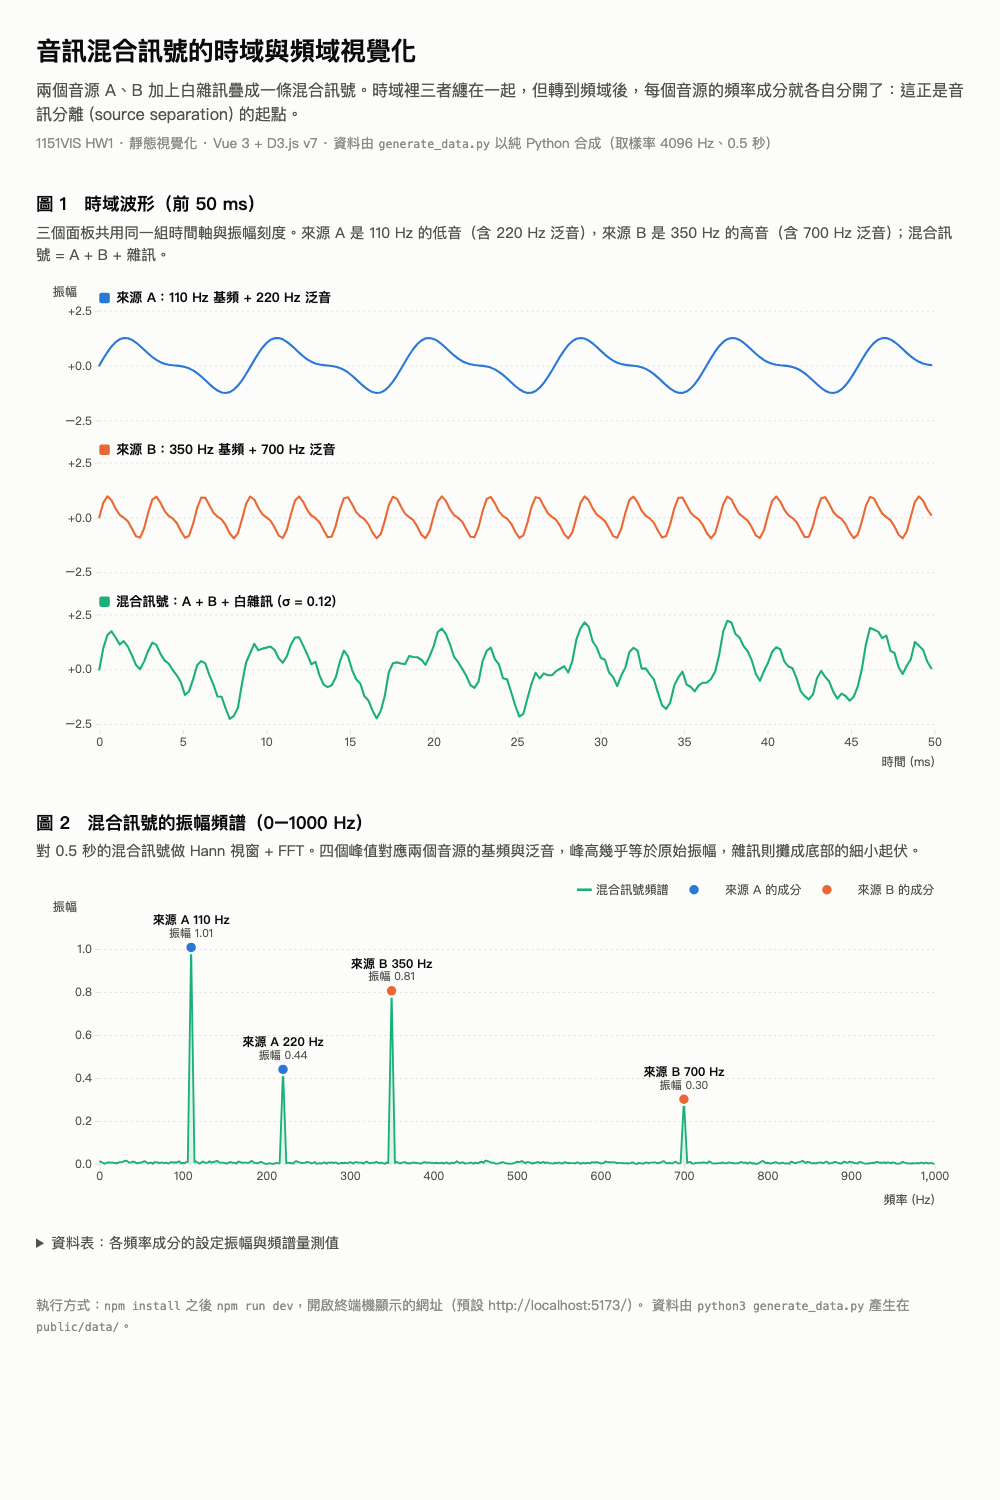
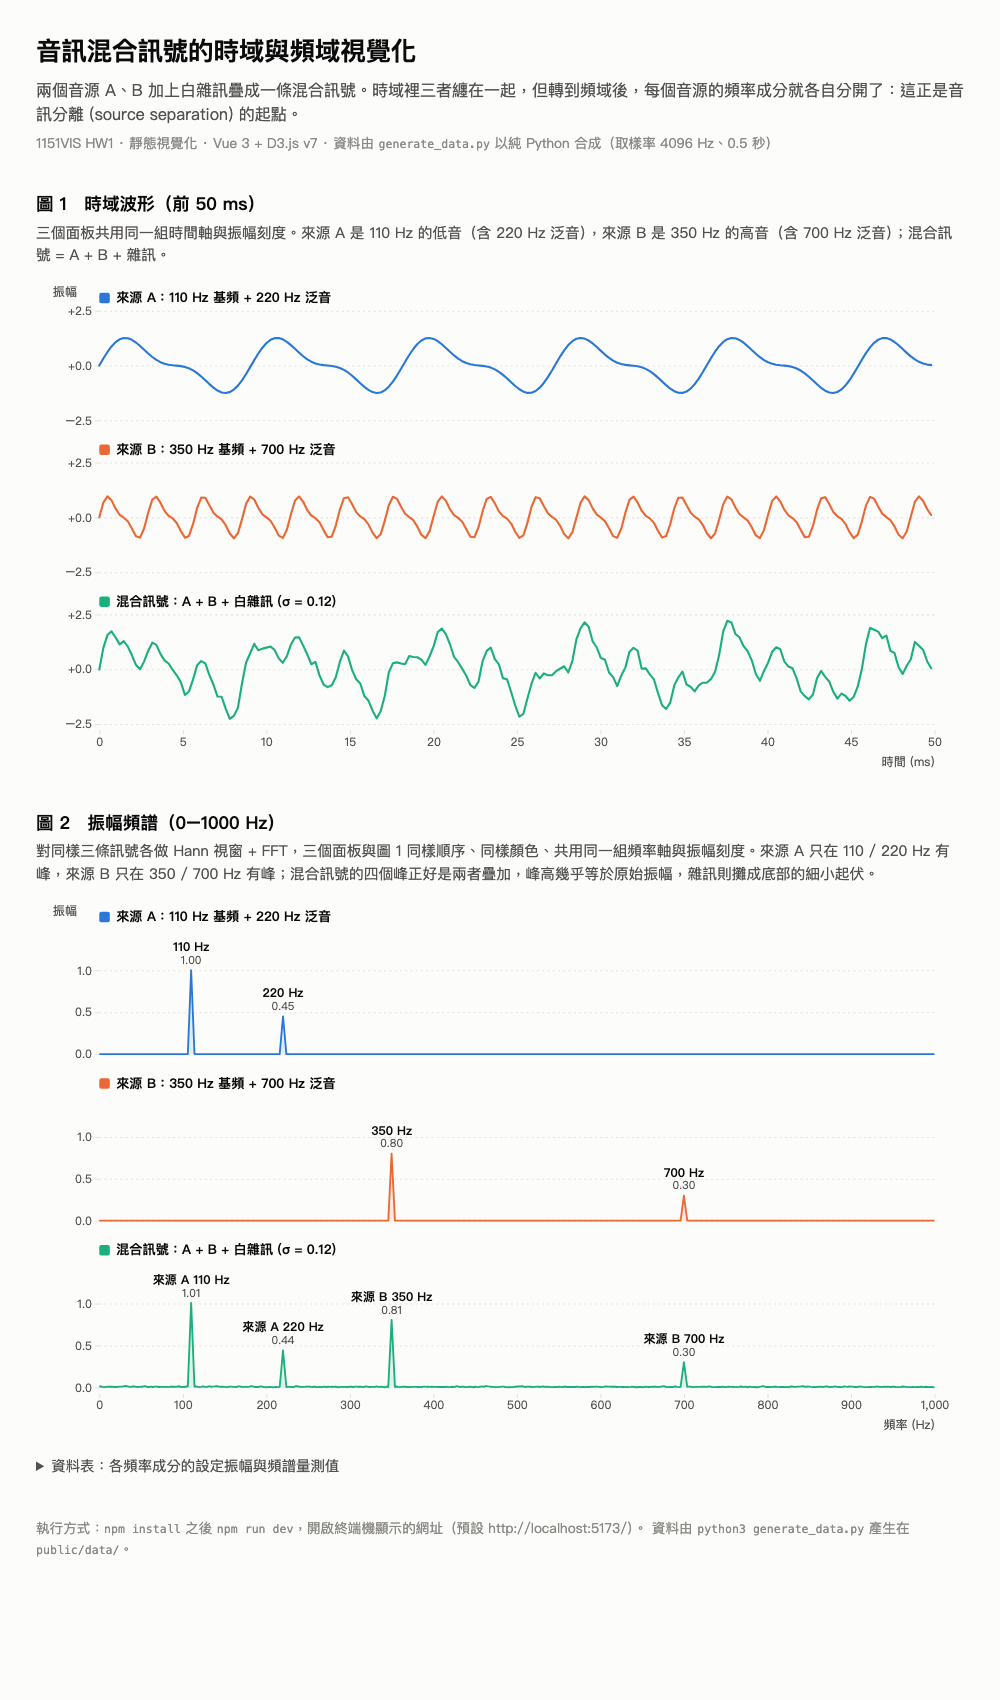
Figure 2: draw source A, source B and mixture spectra as three small multiples matching figure 1
Previously the mixture spectrum was drawn as area + line while sources A/B
were only marked as dots on the peaks, so the same three series used two
different visual encodings. Now all three spectra from spectrum.csv are
drawn with the same area + line style in three stacked panels sharing the
frequency and amplitude scales; peaks are annotated with text only.

diff --git a/src/components/SpectrumChart.vue b/src/components/SpectrumChart.vue
@@ -1,12 +1,14 @@
 <script setup>
-// 圖 2：混合訊號的振幅頻譜（面積 + 折線），並在四個峰值直接標註來源、頻率與振幅。
+// 圖 2：三個小面板 (small multiples)，各畫一條振幅頻譜（面積 + 折線），
+// 排列順序、顏色與畫法都和圖 1 一致：來源 A、來源 B、混合訊號各一個面板，共用 x / y 刻度。
+// 峰值只用文字標註（不另外畫圓點），讓三條序列維持同一種視覺編碼。
 import { ref, onMounted, watch } from 'vue'
 import * as d3 from 'd3'
-import { SOURCE_NAME, SOURCE_COLOR, MIX_COLOR } from '../series.js'
+import { SERIES, SOURCE_NAME } from '../series.js'
 
 const props = defineProps({
   rows: { type: Array, required: true },   // spectrum.csv：{ freq_hz, source_a, source_b, mixture }
-  peaks: { type: Array, required: true },  // 已含 measured 的峰值：{ source, freq_hz, amplitude, measured }
+  peaks: { type: Array, required: true },  // 各音源的頻率成分：{ source, freq_hz, amplitude }
   fmax: { type: Number, default: 1000 },   // 只畫到這個頻率
 })
 
@@ -23,77 +25,78 @@ function draw() {
   const rows = props.rows.filter(d => d.freq_hz <= props.fmax)
   if (!rows.length) return
 
-  const H = 320
-  const TOP = 44
-  const BOTTOM = 46
+  const PH = 118   // 每個面板的繪圖高度
+  const TITLE = 24 // 面板標題保留高度
+  const GAP = 16
+  const TOP = 6
+  const n = SERIES.length
+  const lastBottom = TOP + (n - 1) * (TITLE + PH + GAP) + TITLE + PH
+  const H = lastBottom + 46
   const plotW = W - ML - MR
 
   const svg = d3.select(el).append('svg')
     .attr('viewBox', [0, 0, W, H])
     .attr('role', 'img')
-    .attr('aria-label', `混合訊號 0 到 ${props.fmax} Hz 的振幅頻譜，標出來源 A 與來源 B 的峰值`)
+    .attr('aria-label', `來源 A、來源 B 與混合訊號 0 到 ${props.fmax} Hz 的振幅頻譜，三個面板上下排列，峰值標出頻率與振幅`)
 
   const x = d3.scaleLinear().domain([0, props.fmax]).range([ML, W - MR])
-  const yMax = Math.max(1, d3.max(rows, d => d.mixture))
-  const y = d3.scaleLinear().domain([0, yMax * 1.12]).range([H - BOTTOM, TOP])
+  // 三個面板共用同一個 y 刻度；上方多留 35% 放峰值文字
+  const absMax = d3.max(rows, d => Math.max(d.source_a, d.source_b, d.mixture))
+  const yMax = Math.max(1, Math.ceil(absMax * 10) / 10)
+  const yTicks = d3.range(0, yMax + 1e-9, 0.5)
 
-  // 格線、座標軸、軸標籤
-  svg.append('g').attr('class', 'grid').attr('transform', `translate(${ML},0)`)
-    .call(d3.axisLeft(y).ticks(4).tickSize(-plotW).tickFormat(''))
-  svg.append('g').attr('class', 'axis').attr('transform', `translate(${ML},0)`)
-    .call(d3.axisLeft(y).ticks(4).tickSize(4).tickFormat(d3.format('.1f')))
-    .call(g => g.select('.domain').remove())
-  svg.append('g').attr('class', 'axis').attr('transform', `translate(0,${H - BOTTOM})`)
+  // 每個面板要標註的峰值：來源面板標自己的成分，混合訊號面板標全部四個
+  const peaksFor = key => props.peaks
+    .filter(p => p.freq_hz <= props.fmax && (key === 'mixture' || p.source === key))
+    .map(p => {
+      const bin = d3.least(rows, d => Math.abs(d.freq_hz - p.freq_hz))
+      return { ...p, measured: bin ? bin[key] : NaN }
+    })
+
+  SERIES.forEach((s, i) => {
+    const top = TOP + i * (TITLE + PH + GAP) + TITLE
+    const y = d3.scaleLinear().domain([0, yMax * 1.35]).range([top + PH, top])
+
+    // 面板標題 + 色塊（與圖 1 相同）
+    svg.append('rect')
+      .attr('x', ML).attr('y', top - 17).attr('width', 10).attr('height', 10).attr('rx', 2)
+      .style('fill', s.color)
+    svg.append('text').attr('class', 'panel-title').attr('x', ML + 16).attr('y', top - 8).text(s.label)
+
+    // 格線與 y 軸
+    svg.append('g').attr('class', 'grid').attr('transform', `translate(${ML},0)`)
+      .call(d3.axisLeft(y).tickValues(yTicks).tickSize(-plotW).tickFormat(''))
+    svg.append('g').attr('class', 'axis').attr('transform', `translate(${ML},0)`)
+      .call(d3.axisLeft(y).tickValues(yTicks).tickSize(4).tickFormat(d3.format('.1f')))
+      .call(g => g.select('.domain').remove())
+
+    // 頻譜：淡色面積 + 折線，三個面板一樣的畫法
+    svg.append('path').datum(rows)
+      .style('fill', s.color).attr('fill-opacity', 0.12)
+      .attr('d', d3.area().x(d => x(d.freq_hz)).y0(y(0)).y1(d => y(d[s.key])))
+    svg.append('path').datum(rows)
+      .attr('fill', 'none').style('stroke', s.color)
+      .attr('stroke-width', 1.75).attr('stroke-linejoin', 'round')
+      .attr('d', d3.line().x(d => x(d.freq_hz)).y(d => y(d[s.key])))
+
+    // 峰值標註：純文字兩行（頻率 / 量測振幅），混合訊號面板多寫是哪個來源
+    const g = svg.append('g').selectAll('g').data(peaksFor(s.key)).join('g')
+      .attr('transform', d => `translate(${x(d.freq_hz)},${y(d.measured)})`)
+    g.append('text').attr('class', 'peak-label').attr('text-anchor', 'middle').attr('y', -18)
+      .text(d => (s.key === 'mixture' ? `${SOURCE_NAME[d.source]} ` : '') + `${d.freq_hz} Hz`)
+    g.append('text').attr('class', 'peak-sub').attr('text-anchor', 'middle').attr('y', -6)
+      .text(d => d.measured.toFixed(2))
+    g.append('title')
+      .text(d => `${SOURCE_NAME[d.source]}：${d.freq_hz} Hz\n設定振幅 ${d.amplitude.toFixed(2)}，${s.label.split('：')[0]}頻譜量測 ${d.measured.toFixed(3)}`)
+  })
+
+  // 共用的 x 軸只畫在最下面
+  svg.append('g').attr('class', 'axis').attr('transform', `translate(0,${lastBottom + 6})`)
     .call(d3.axisBottom(x).ticks(10).tickSize(4))
     .call(g => g.select('.domain').remove())
   svg.append('text').attr('class', 'axis-label')
-    .attr('x', W - MR).attr('y', H - 8).attr('text-anchor', 'end').text('頻率 (Hz)')
-  svg.append('text').attr('class', 'axis-label').attr('x', ML - 44).attr('y', TOP - 10).text('振幅')
-
-  // 頻譜：淡色面積 + 折線
-  svg.append('path').datum(rows)
-    .style('fill', MIX_COLOR).attr('fill-opacity', 0.12)
-    .attr('d', d3.area().x(d => x(d.freq_hz)).y0(y(0)).y1(d => y(d.mixture)))
-  svg.append('path').datum(rows)
-    .attr('fill', 'none').style('stroke', MIX_COLOR)
-    .attr('stroke-width', 1.75).attr('stroke-linejoin', 'round')
-    .attr('d', d3.line().x(d => x(d.freq_hz)).y(d => y(d.mixture)))
-
-  // 峰值標註：圓點（外圈留 2px 底色）+ 兩行文字 + 滑鼠停留的 tooltip
-  const marks = props.peaks.filter(p => p.freq_hz <= props.fmax)
-  const g = svg.append('g').selectAll('g').data(marks).join('g')
-    .attr('transform', d => `translate(${x(d.freq_hz)},${y(d.measured)})`)
-  g.append('circle').attr('r', 5.5)
-    .style('fill', d => SOURCE_COLOR[d.source])
-    .style('stroke', 'var(--surface-1)').attr('stroke-width', 2)
-  g.append('text').attr('class', 'peak-label').attr('text-anchor', 'middle').attr('y', -22)
-    .text(d => `${SOURCE_NAME[d.source]} ${d.freq_hz} Hz`)
-  g.append('text').attr('class', 'peak-sub').attr('text-anchor', 'middle').attr('y', -10)
-    .text(d => `振幅 ${d.measured.toFixed(2)}`)
-  g.append('title')
-    .text(d => `${SOURCE_NAME[d.source]}：${d.freq_hz} Hz\n設定振幅 ${d.amplitude.toFixed(2)}，頻譜量測 ${d.measured.toFixed(3)}`)
-
-  // 圖例（右上角，從右往左排）
-  const legend = svg.append('g').attr('class', 'legend').attr('transform', `translate(${W - MR},${TOP - 30})`)
-  const items = [
-    { label: '混合訊號頻譜', color: MIX_COLOR, kind: 'line' },
-    { label: '來源 A 的成分', color: SOURCE_COLOR.source_a, kind: 'dot' },
-    { label: '來源 B 的成分', color: SOURCE_COLOR.source_b, kind: 'dot' },
-  ]
-  let cursor = 0
-  items.slice().reverse().forEach(it => {
-    const li = legend.append('g')
-    li.append('text').attr('x', -cursor).attr('y', 4).attr('text-anchor', 'end').text(it.label)
-    const tw = it.label.length * 11.5 + 4
-    if (it.kind === 'dot') {
-      li.append('circle').attr('cx', -cursor - tw - 6).attr('cy', 0).attr('r', 4.5).style('fill', it.color)
-    } else {
-      li.append('line')
-        .attr('x1', -cursor - tw - 14).attr('x2', -cursor - tw).attr('y1', 0).attr('y2', 0)
-        .style('stroke', it.color).attr('stroke-width', 2.5)
-    }
-    cursor += tw + 30
-  })
+    .attr('x', W - MR).attr('y', lastBottom + 40).attr('text-anchor', 'end').text('頻率 (Hz)')
+  svg.append('text').attr('class', 'axis-label').attr('x', ML - 44).attr('y', TOP + 10).text('振幅')
 }
 
 onMounted(draw)

diff --git a/src/App.vue b/src/App.vue
@@ -57,8 +57,8 @@ const measuredPeaks = computed(() =>
       </figure>
 
       <figure>
-        <h2>圖 2　混合訊號的振幅頻譜（0–1000 Hz）</h2>
-        <p class="desc">對 0.5 秒的混合訊號做 Hann 視窗 + FFT。四個峰值對應兩個音源的基頻與泛音，峰高幾乎等於原始振幅，雜訊則攤成底部的細小起伏。</p>
+        <h2>圖 2　振幅頻譜（0–1000 Hz）</h2>
+        <p class="desc">對同樣三條訊號各做 Hann 視窗 + FFT，三個面板與圖 1 同樣順序、同樣顏色、共用同一組頻率軸與振幅刻度。來源 A 只在 110 / 220 Hz 有峰，來源 B 只在 350 / 700 Hz 有峰；混合訊號的四個峰正好是兩者疊加，峰高幾乎等於原始振幅，雜訊則攤成底部的細小起伏。</p>
         <SpectrumChart :rows="spectrum" :peaks="measuredPeaks" :fmax="1000" />
         <PeakTable :peaks="measuredPeaks" />
       </figure>

diff --git a/README.md b/README.md
@@ -23,7 +23,7 @@
 ![專案截圖](screenshot.png)
 
 > 圖 1（上）：來源 A、來源 B、混合訊號前 50 ms 的時域波形，三個面板共用時間軸與振幅刻度。
-> 圖 2（下）：混合訊號 0–1000 Hz 的振幅頻譜，四個峰值對應兩個音源的基頻與泛音。
+> 圖 2（下）：來源 A、來源 B、混合訊號 0–1000 Hz 的振幅頻譜，三個面板與圖 1 同樣順序、同樣畫法，共用頻率軸與振幅刻度；混合訊號的四個峰正好是 A、B 各自峰值的疊加。
 
 ---
 
@@ -93,7 +93,7 @@ python3 generate_data.py
 |---|---|
 | `src/App.vue` | 在 `onMounted` 用 `d3.csv(..., d3.autoType)` 同時載入三個 CSV，存成 `ref`；用 `computed` 算出每個峰值在頻譜上實際量到的值，再以 props 傳給子元件 |
 | `src/components/WaveformChart.vue` | 圖 1 時域波形：三個小面板 (small multiples) 上下排列，各畫一條 `d3.line()`，共用同一組 `d3.scaleLinear()` 的 x（時間 ms）與 y（振幅）刻度 |
-| `src/components/SpectrumChart.vue` | 圖 2 振幅頻譜：`d3.area()` + `d3.line()` 畫混合訊號頻譜，用 `d3.least()` 對齊四個峰值，畫圓點並直接標註「來源、頻率、振幅」，右上角有圖例 |
+| `src/components/SpectrumChart.vue` | 圖 2 振幅頻譜：與圖 1 同樣的三個小面板（來源 A、來源 B、混合訊號），各用 `d3.area()` + `d3.line()` 畫頻譜，共用 x（頻率 Hz）與 y（振幅）刻度；用 `d3.least()` 對齊峰值所在的 bin，以純文字標註「頻率、量測振幅」 |
 | `src/components/PeakTable.vue` | 資料表：純 Vue 模板 `v-for` 渲染，讓數值不靠顏色也能閱讀 |
 | `src/series.js` | 三條序列的固定顏色與標籤（顏色跟著實體走，不跟著順序走） |
 | `src/style.css` | 色票以 CSS custom properties 定義，支援系統深色模式 (`prefers-color-scheme`)；配色有用工具檢查色盲 (CVD) 可分辨性 |
